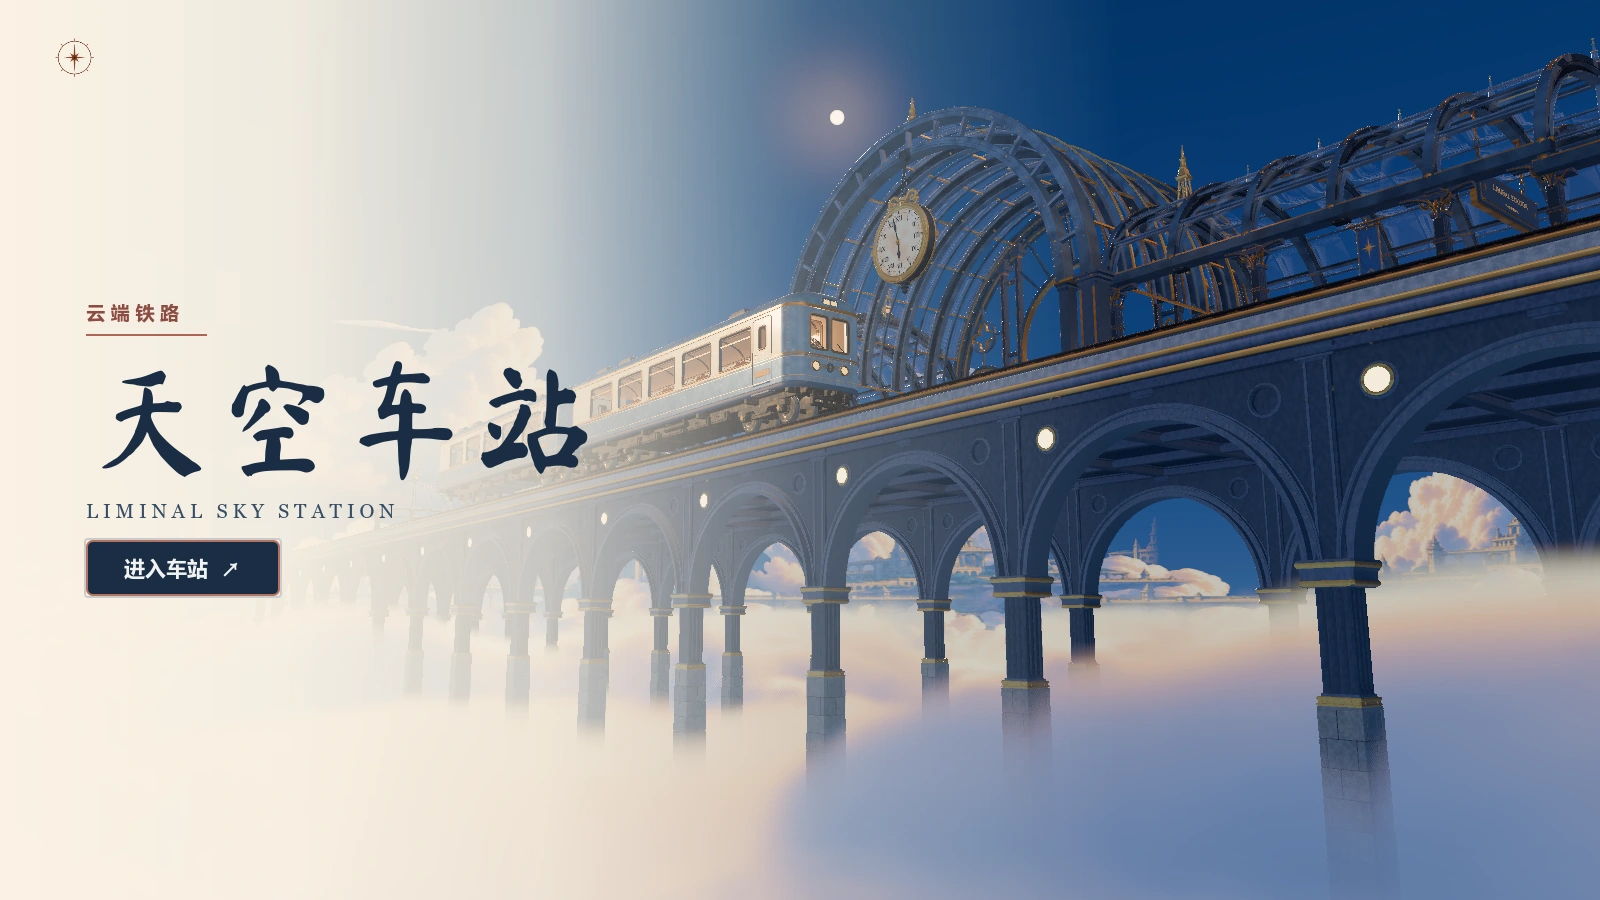
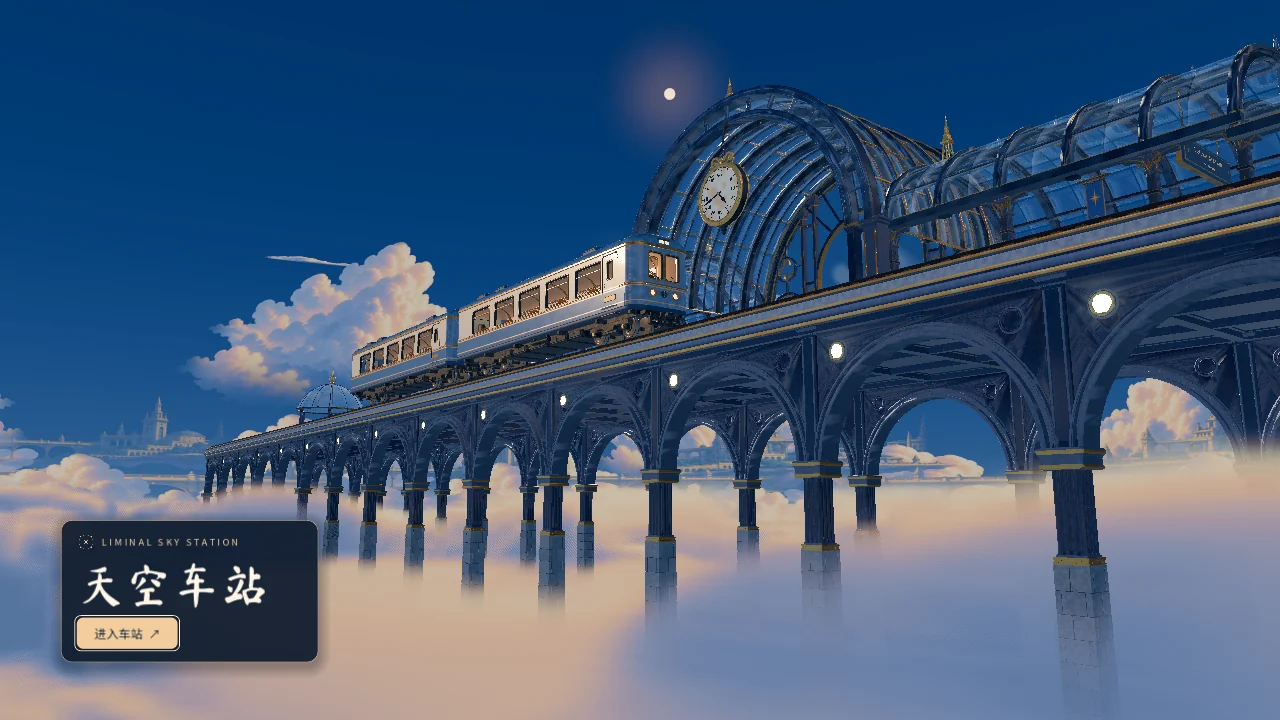
Polish the compact station interface

diff --git a/web/index.html b/web/index.html
@@ -6,35 +6,50 @@
 	<title>$GODOT_PROJECT_NAME</title>
 	$GODOT_HEAD_INCLUDE
 	<style>
-		:root { color-scheme: dark; background: #111b2b; color: #f4ecdf; }
-		body { margin: 0; overflow: hidden; font: 15px/1.5 system-ui, sans-serif; }
+		:root {
+			color-scheme: dark;
+			background: #101d2e;
+			color: #fff5e7;
+			--brass: #f2cd9e;
+			--seam: #d7ad7460;
+		}
+		body { margin: 0; overflow: hidden; font: 13px/1.5 system-ui, sans-serif; }
 		#canvas { display: block; width: 100vw; height: 100dvh; outline: none; touch-action: none; }
 		#status {
-			position: fixed; inset: 0; display: grid; place-content: center; justify-items: center;
-			gap: 12px; padding: 24px; text-align: center;
-			background: radial-gradient(ellipse at 50% 36%, #273e58, #111b2b 66%);
+			position: fixed; inset: 0; display: grid; place-items: center; padding: 18px;
+			background: radial-gradient(ellipse at 50% 40%, #29425b, #101d2e 70%);
 		}
 		#status[hidden], [hidden] { display: none; }
-		#status img { width: 64px; height: 64px; object-fit: contain; }
-		h1 { margin: 0; font: 500 clamp(28px, 6vw, 48px)/1.2 Georgia, serif; letter-spacing: 0.14em; }
-		progress { width: min(64vw, 260px); height: 9px; accent-color: #d6aa84; }
+		.status-card {
+			box-sizing: border-box; display: grid; justify-items: center; gap: 9px;
+			width: min(240px, 100%); padding: 18px; text-align: center;
+			border: 1px solid var(--seam); border-radius: 12px; background: #111e30ed;
+			box-shadow: 0 15px 44px #0c17275c;
+		}
+		#status img { width: 38px; height: 38px; object-fit: contain; }
+		h1 { margin: 0; font-size: clamp(20px, 5vw, 27px); font-weight: 580; letter-spacing: 0.09em; }
+		progress { width: min(100%, 154px); height: 6px; accent-color: var(--brass); }
 		p { margin: 0; color: #d2c4b7; }
 		button {
-			padding: 8px 20px; border: 1px solid #d6aa84; border-radius: 4px;
-			background: #25384d; color: #f4ecdf; font: inherit; cursor: pointer;
+			padding: 5px 12px; border: 1px solid var(--brass); border-radius: 6px;
+			background: var(--brass); color: #17283a; font: inherit; cursor: pointer;
 		}
+		button:hover { background: #ffe2bd; }
+		button:focus-visible { outline: 2px solid #fff0cc; outline-offset: 3px; }
 	</style>
 </head>
 <body>
 	<canvas id="canvas" aria-label="天空车站实时场景"></canvas>
 	<main id="status">
-		<img src="$GODOT_SPLASH" alt="">
-		<h1>天空车站</h1>
-		<p id="loading" role="status">正在加载车站</p>
-		<progress max="1" aria-label="车站资源加载进度"></progress>
-		<p id="status-notice" role="alert" hidden></p>
-		<button type="button" hidden>重新加载</button>
-		<noscript>请启用 JavaScript 进入车站。</noscript>
+		<section class="status-card" aria-labelledby="status-title">
+			<img src="$GODOT_SPLASH" alt="">
+			<h1 id="status-title">天空车站</h1>
+			<p id="loading" role="status">正在加载车站</p>
+			<progress max="1" aria-label="车站资源加载进度"></progress>
+			<p id="status-notice" role="alert" hidden></p>
+			<button type="button" hidden>重新加载</button>
+			<noscript>请启用 JavaScript 进入车站。</noscript>
+		</section>
 	</main>
 	<script src="$GODOT_URL"></script>
 	<script>
